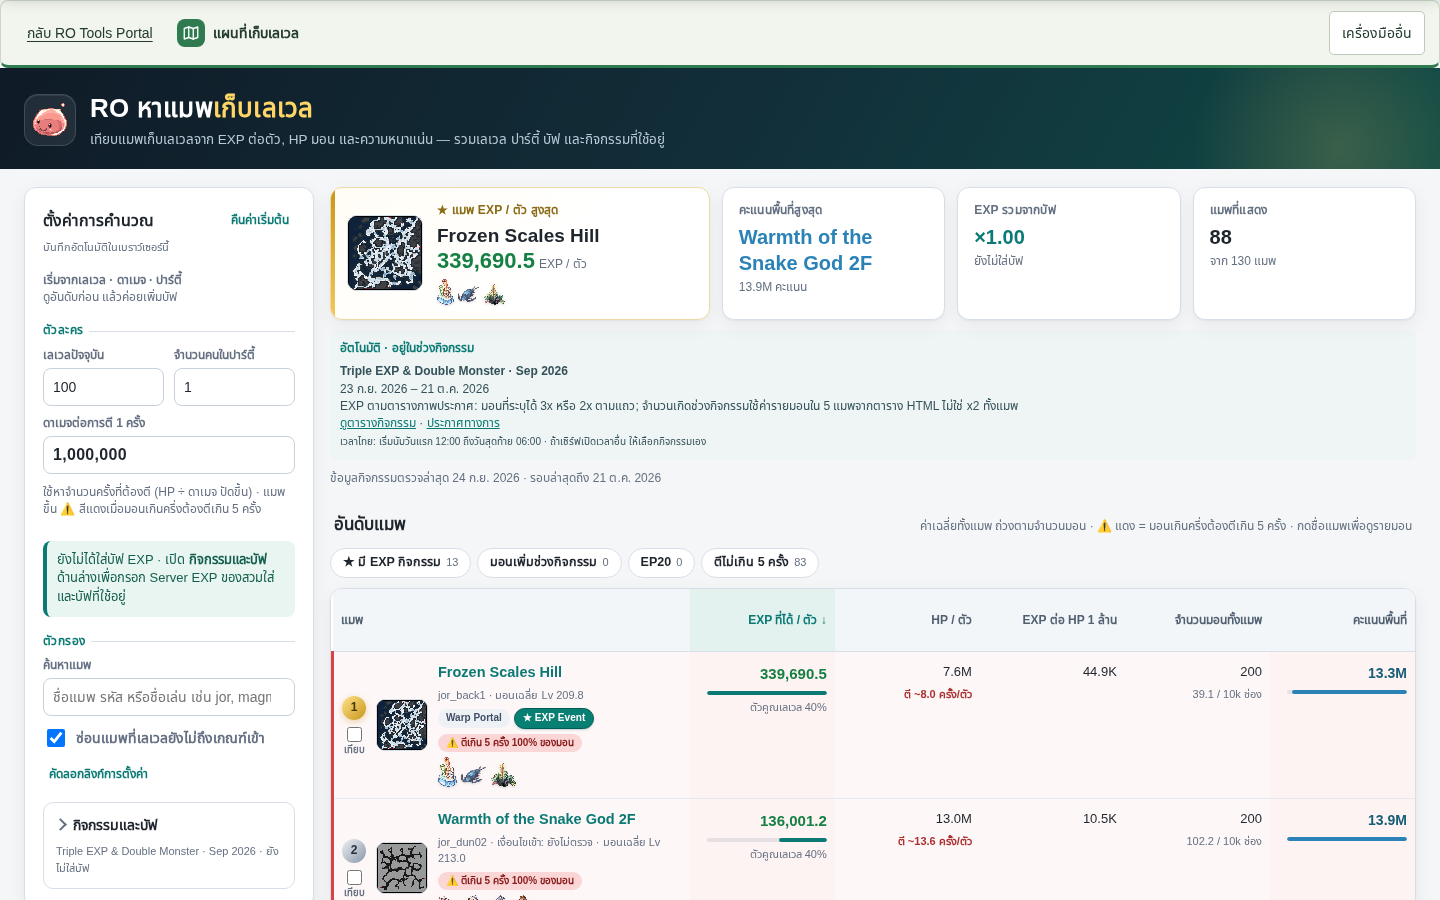
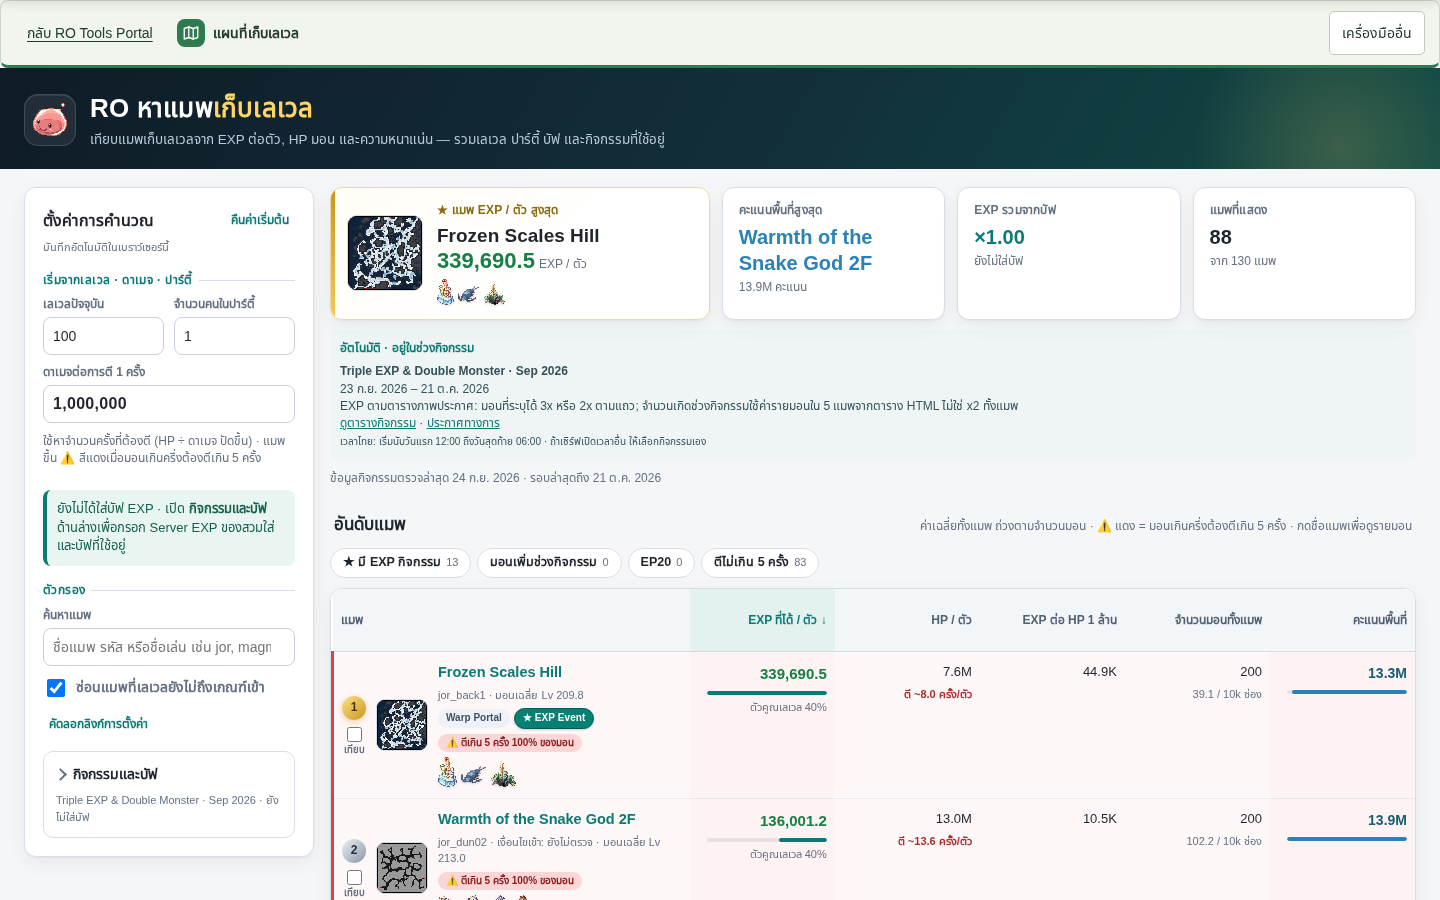
Tighten first-run guidance and correct visible-control evidence

Changed region(s): [[0.0312, 0.28, 0.2188, 0.9644], [0.125, 0.3733, 0.1875, 0.4044]]

diff --git a/index.html b/index.html
@@ -120,8 +120,7 @@
     <div class="layout">
       <aside class="panel controls">
         <div class="settings-head"><h2 class="section-title">ตั้งค่าการคำนวณ</h2><button type="button" id="resetSettings" class="text-btn">คืนค่าเริ่มต้น</button></div><p id="storageStatus" class="save-status" role="status">บันทึกอัตโนมัติในเบราว์เซอร์นี้</p>
-        <p class="field-help first-run-cue"><strong>เริ่มจากเลเวล · ดาเมจ · ปาร์ตี้</strong><br>ดูอันดับก่อน แล้วค่อยเพิ่มบัฟ</p>
-        <div class="setting-label">ตัวละคร</div>
+        <div class="setting-label first-run-cue">เริ่มจากเลเวล · ดาเมจ · ปาร์ตี้</div>
         <div class="grid">
           <div><label for="playerLevel">เลเวลปัจจุบัน</label><input id="playerLevel" type="number" min="1" max="260" value="100"></div>
           <div><label for="partySize">จำนวนคนในปาร์ตี้</label><input id="partySize" type="number" min="1" max="12" value="1"></div>

diff --git a/qa/first-run/REPORT.md b/qa/first-run/REPORT.md
@@ -4,7 +4,7 @@
 Clean default branch at `4bebd0ee9c93f3bb1179d526d3957de15d57c935` archived before edits. Existing unit checks passed on untouched source. Before browser evidence uses that immutable archive, never the candidate with features removed. See `baseline.json` for structural inventory and `local-first-run-results.json` for exact source hash, widths, measured geometry and three before/after output cases.
 
 ## Changes
-3 primary character inputs remain visible. Four advanced disclosures that were open on desktop now start closed; mobile already collapsed the parent. Existing dynamic event status moves beside results, so automatic/manual assumptions remain visible. No event, ranking or comparison code changed.
+3 primary character inputs remain visible. The short start cue reuses the original character label row rather than adding a help block before the inputs. Four advanced disclosures that were open on desktop now start closed; mobile already collapsed the parent. Existing dynamic event status moves beside results, so automatic/manual assumptions remain visible. No event, ranking or comparison code changed.
 
 ## Actual verification
 - `node --test tests/*.test.*`: 41 tests (final result also in CI)
@@ -14,6 +14,7 @@ Clean default branch at `4bebd0ee9c93f3bb1179d526d3957de15d57c935` archived befo
 - Historical whole-page invariant checks now first reverse only `changes.json` before checking their historical hashes. This keeps approved presentation edits explicit and preserves original business/data byte checks
 
 ## Evidence
+The final geometry collector uses `Element.checkVisibility()` and excludes descendants of closed native details. Counts are rendered controls anywhere in the page, not a claim that all are in the first viewport; minimum required inputs are documented separately.
 Before/after390/1440 screenshots are lossless WebP conversions of actual Chromium viewport captures. All widths/themes and source-linked outputs are in local JSON and final-head CI artifacts. No human usability study or conversion claim.
 
 ## Limitations and findings
